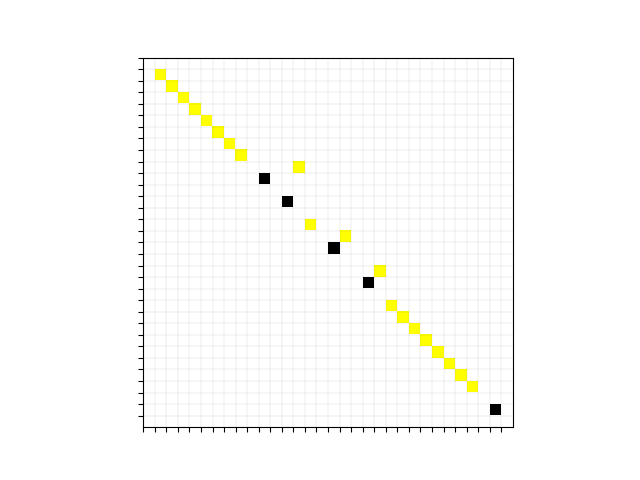
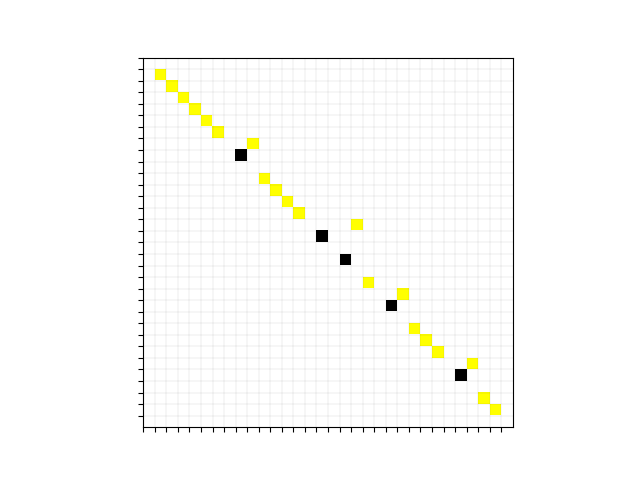
I am done
Finally works as intended

diff --git a/random_singlets/ZT_RSS.py b/random_singlets/ZT_RSS.py
@@ -1,5 +1,5 @@
 import numpy as np
-
+#%%
 class ZT_Random_Spin:
 
     version="v2.1"
@@ -26,7 +26,7 @@ class ZT_Random_Spin:
 
     #computes the energy
     def sys_energy(self):
-        self.system_energy = (-1/4)*np.sum(self.bond_matrix)
+        self.system_energy = -(1/4)*np.sum(self.bond_matrix[self.bond_matrix > 0])
         return self
 
     #finds the strongest bond and those next to it
@@ -93,22 +93,17 @@ class ZT_Random_Spin:
 
     #This is the RG process
     def renormalization(self):
-        energy_prime = -(1/4)*self.max_bond - ((3/16)/self.max_bond)*((self.left_bond**2) + (self.right_bond**2)) # find the energy contribution
-        bond_prime = (self.left_bond*self.right_bond)/(2*self.max_bond) # find the strength of the new bond that will exist after we remove the spins
-        self.local_energy = (-1/4)*np.sum(self.bond_matrix[self.max_index])
-        self.new_local_energy = energy_prime -(1/4)*bond_prime # finds the energy that we will add to the total energy after we remove the spins/bonds that existed
-
         self.bond_matrix[self.left_index[0]][self.left_index[1]] = 0
         self.bond_matrix[self.right_index[0]][self.right_index[1]] = 0
         self.bond_matrix[self.left_index[0]][self.right_index[1]] = bond_prime
         self.bond_matrix[self.max_index[0]][self.max_index[1]] = self.max_bond - self.ceiling
-        self.system_energy = self.system_energy - self.local_energy + self.new_local_energy # calculates the new energy of the chain by removing the previous contribution of the strongest bond and adding the new contribution of the newly weak bond in the same spot
         if self.bond_matrix[0][0]!=0:
             self.bond_matrix[0][0] = 0
-            
+
         self.distance = self.right_index[1]-self.left_index[0]
         self.average_strength() # recalculates the average strength
-        self.logarithmic() #evaluates the log variable for the rg flow
+        self.sys_energy()
+        #self.logarithmic() #evaluates the log variable for the rg flow
         self.rescale() # rescales the matix and also refreshes the biggest bond search
         self.rg_end() #checks for non-singlets
         return self
@@ -119,3 +114,5 @@ class ZT_Random_Spin:
         if self.max_bond == 0.0:
             self.end_rg = 1
         return self
+
+# %%

diff --git a/energy.py b/energy.py
@@ -1,15 +1,18 @@
 import numpy as np
 import matplotlib.pyplot as plt
 from random_singlets.ZT_RSS import ZT_Random_Spin
+from tqdm import tqdm
 
-matrix = ZT_Random_Spin(100,1)
+iterations=10
 
-en = []
-
-while matrix.end_rg == 0:
-    matrix.renormalization()
-    en = np.append(en, -matrix.system_energy)
-
-plt.plot(en)
-plt.savefig('energy.png')
+for j in tqdm(range(iterations)):
+    matrix = ZT_Random_Spin(100,1)
+    en = []
+    i=0
+    while matrix.end_rg == 0:
+        matrix.renormalization()
+        en = np.append(en, np.abs(matrix.system_energy))
+        #print(matrix.system_energy)
+    plt.plot(en)
+plt.savefig('Figures/energy.png')
 plt.show()

diff --git a/flow.py b/flow.py
@@ -3,17 +3,18 @@ import matplotlib.pyplot as plt
 from random_singlets.ZT_RSS import ZT_Random_Spin
 from tqdm import tqdm
 
-iterations = 10
+iterations=10
 
 for j in tqdm(range(iterations)):
     matrix = ZT_Random_Spin(100,1)
-    dist = []
+    values = []
     i=0
     while matrix.end_rg == 0:
         matrix.renormalization()
-        dist = np.append(dist, matrix.distance)
+        matrix.rgflow()
+        values = np.append(values, np.sum(matrix.flow[matrix.flow > 0])/matrix.length)
+        i+=1
+    plt.plot(values)
 
-    plt.hist(dist)
-plt.savefig('Figures/distance.png')
+plt.savefig('Figures/rgflow.png')
 plt.show()
-

diff --git a/matrix.py b/matrix.py
@@ -3,7 +3,6 @@ import matplotlib.pyplot as plt
 import matplotlib.animation as animation
 from matplotlib import colors
 from random_singlets.ZT_RSS import ZT_Random_Spin
-
 fig = plt.figure()
 
 ax = plt.gca()
@@ -31,10 +30,7 @@ while matrix.end_rg == 0:
     i+=1
 
 ani = animation.ArtistAnimation(fig, ims, interval=200, blit=True, repeat_delay=10000)
-ani.save('Figures/rg.mp4')
+ani.save('Figures/rg.gif')
 
 img.figure.savefig('Figures/Matrix/singlet-phase.png')
 plt.show()
-
-
-
